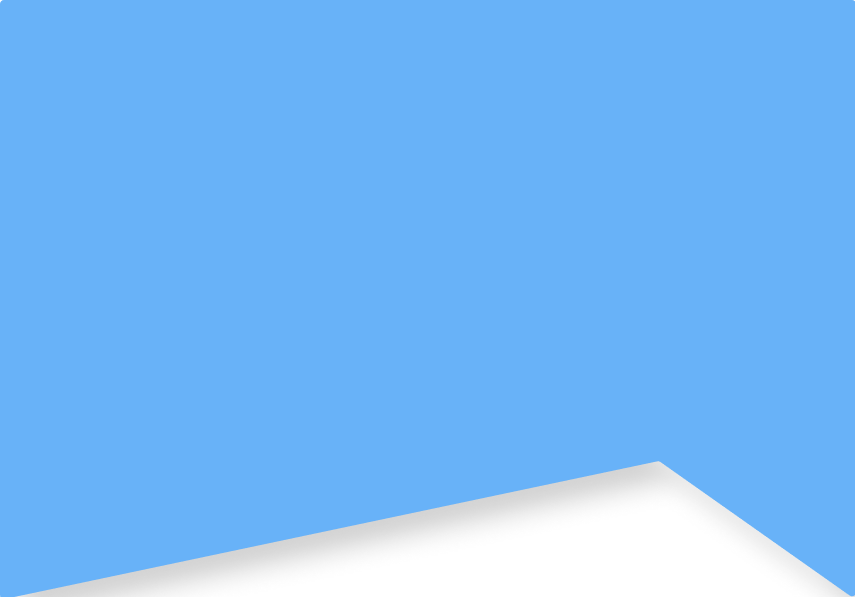
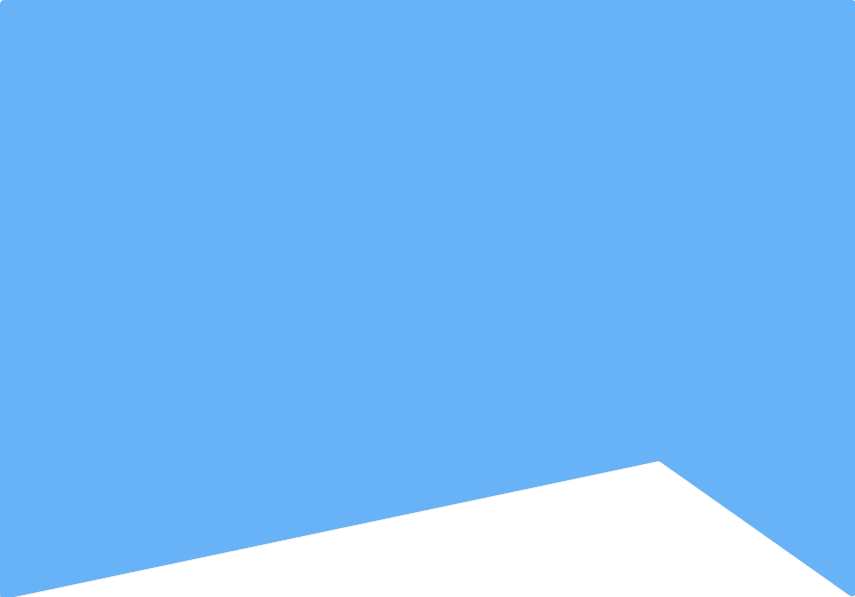
create header with backgroud image

Changed region(s): [[0.0, 0.7538, 0.7906, 1.0], [0.9731, 0.995, 1.0, 1.0]]

diff --git a/src/pages/CreateUser/index.jsx b/src/pages/CreateUser/index.jsx
@@ -3,16 +3,15 @@ import { Keyboard } from "react-native";
 import { useForm, Controller } from "react-hook-form";
 import { yupResolver } from "@hookform/resolvers/yup";
 import { useNavigation } from '@react-navigation/native'
-import BgImg from '../../assets/layout-top.png';
-
-import ImagePicker from "../../components/ImagePicker";
 import CityPicker from "../../components/CityPicker";
 import DatePicker from "../../components/DatePicker";
 import TextInput from "../../components/TextInput";
 import { createUserSchema } from '../../utils/createUserValidation';
 import { format } from 'date-fns';
 import api from '../../services/api';
-import { Container, ErrorText, Header, InputContainer, Label, ScrollViewContent, StyledSwitch, Button, ButtonText, LinkText, Link, Image } from './styles';
+import { Container, ErrorText, InputContainer, Label, ScrollViewContent, StyledSwitch, Button, ButtonText, LinkText, Link, Image } from './styles';
+
+import Header from "../../components/Header";
 
 export default function App() {
     const navigation = useNavigation();
@@ -65,11 +64,10 @@ export default function App() {
     }
 
     return (
-        <Container>
-            <ScrollViewContent>
-                <Header>
-                <Image source={BgImg}/>
-                    Cadastro de Usuário</Header>
+        <>
+            <Header subTitle="Insira os dados" title="Criar conta" />
+            <Container>
+                <ScrollViewContent>
                     <InputContainer>
                         <Controller
                             control={control}
@@ -184,16 +182,17 @@ export default function App() {
                             name="password"
                         />
                     </InputContainer>
-                <InputContainer>
-                    <Button onPress={handleSubmit(onSubmit)}>
-                        <ButtonText>Cadastrar</ButtonText>
-                    </Button>
-                    <Link onPress={() => navigation.goBack()}>
-                        <LinkText>Criar nova conta</LinkText>
-                    </Link>
-                </InputContainer>
+                    <InputContainer>
+                        <Button onPress={handleSubmit(onSubmit)}>
+                            <ButtonText>Cadastrar</ButtonText>
+                        </Button>
+                        <Link onPress={() => navigation.goBack()}>
+                            <LinkText>Criar nova conta</LinkText>
+                        </Link>
+                    </InputContainer>
 
-            </ScrollViewContent>
-        </Container>
+                </ScrollViewContent>
+            </Container>
+        </>
     );
 }

diff --git a/src/components/Header/index.jsx b/src/components/Header/index.jsx
@@ -1,0 +1,46 @@
+import { View } from "react-native";
+import styled from "styled-components";
+import Img from "../../assets/layout-top.png";
+
+const Header = ({ title, subTitle }) => {
+  return (
+    <ViewAbsolute>
+      <View>
+        <TextTitle>{title}</TextTitle>
+        <TextSubtitle>{subTitle}</TextSubtitle>
+      </View>
+      <Logo source={Img} />
+    </ViewAbsolute>
+  );
+};
+export default Header;
+
+const ViewAbsolute = styled(View)`
+  width: 100%;
+  position: absolute;
+  top: 40px;
+  z-index: 999;
+  display: flex;
+  align-items: center;
+  justify-content: flex-start;
+  flex-direction: row;
+  height: 90px;
+`;
+
+const Logo = styled.Image`
+  width: 100%;
+  position: absolute;
+  height: 290px;
+`;
+
+const TextTitle = styled.Text`
+  color: #fff;
+  font-size: 28px;
+  font-weight: bold;
+  z-index: 9;
+  margin-left: 20%;
+`;
+const TextSubtitle = styled(TextTitle)`
+  font-size: 22px;
+  font-weight: 400;
+`;
